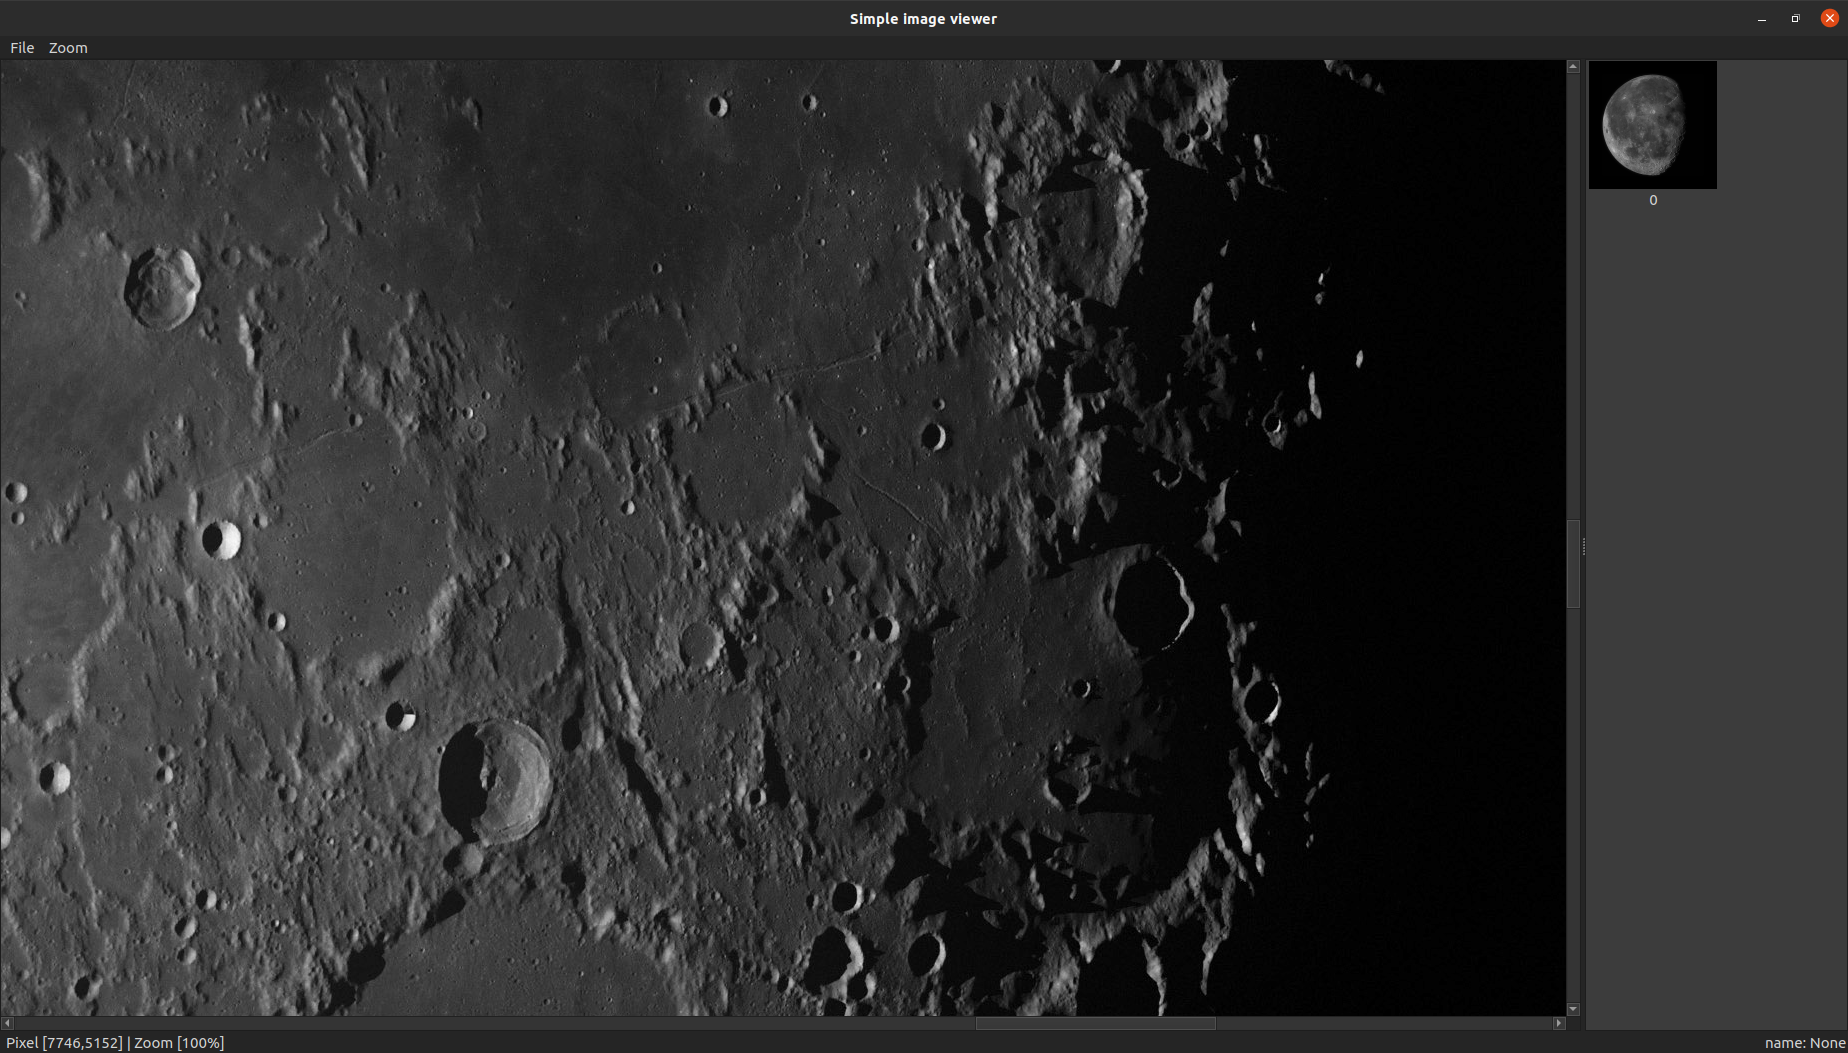
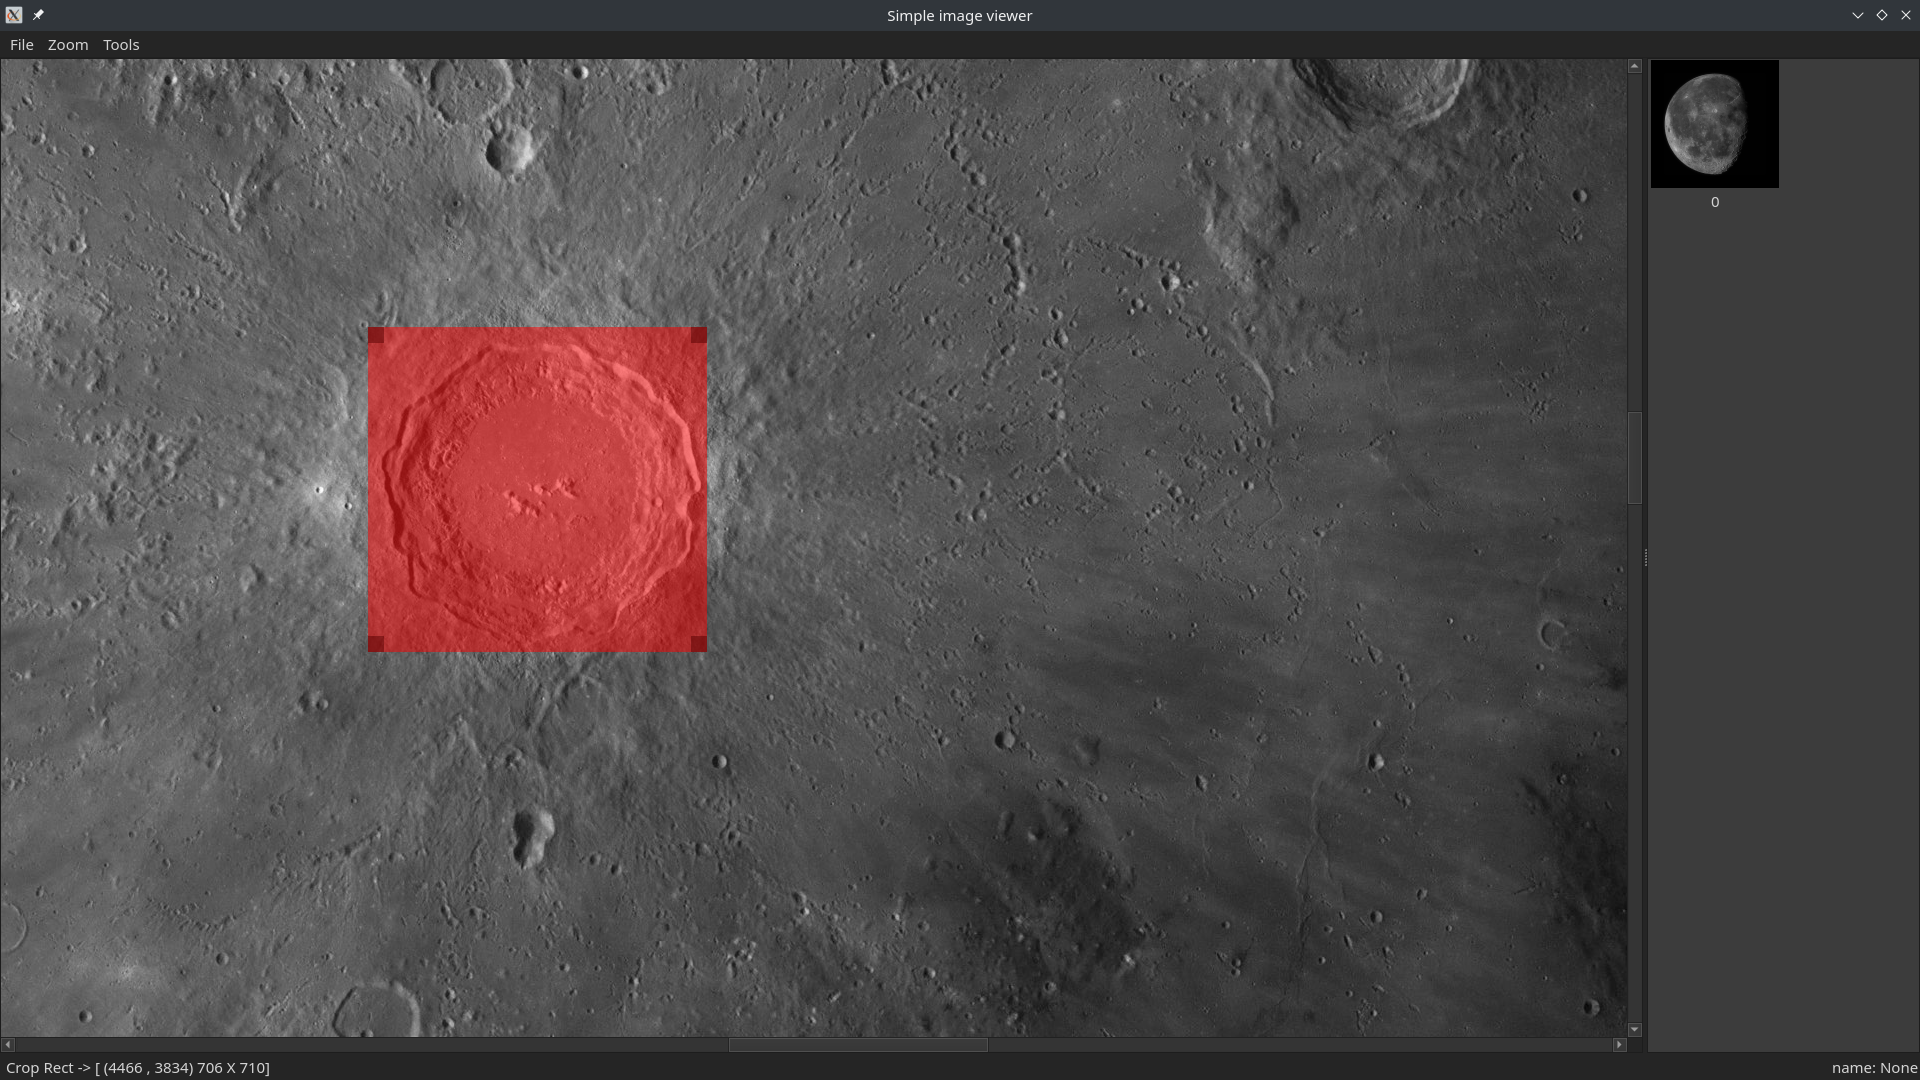
new tools

diff --git a/src/cropwidget.cpp b/src/cropwidget.cpp
@@ -121,58 +121,58 @@ void CropWidget::mouseMoveEvent(QMouseEvent *ev) {
     newrect.translate(dl);
   } else {
     switch (m_currentCorner) {
-      case kTopLeft:
-        if (newrect.width() - dl.x() < kMinimunRectSize)
-          dl.setX(newrect.width() - kMinimunRectSize);
-        if (newrect.height() - dl.y() < kMinimunRectSize)
-          dl.setY(newrect.height() - kMinimunRectSize);
-        newrect.adjust(dl.x(), dl.y(), 0, 0);
-        break;
-      case kTopRight:
-        if (newrect.width() + dl.x() < kMinimunRectSize)
-          dl.setX(kMinimunRectSize - newrect.width());
-        if (newrect.height() - dl.y() < kMinimunRectSize)
-          dl.setY(newrect.height() - kMinimunRectSize);
-        newrect.adjust(0, dl.y(), dl.x(), 0);
-        break;
-      case kBottomRight:
-        if (newrect.width() + dl.x() < kMinimunRectSize)
-          dl.setX(kMinimunRectSize - newrect.width());
-        if (newrect.height() + dl.y() < kMinimunRectSize)
-          dl.setY(kMinimunRectSize - newrect.height());
-        newrect.adjust(0, 0, dl.x(), dl.y());
-        break;
-      case kBottomLeft:
-        if (newrect.width() - dl.x() < kMinimunRectSize)
-          dl.setX(newrect.width() - kMinimunRectSize);
-        if (newrect.height() + dl.y() < kMinimunRectSize)
-          dl.setY(kMinimunRectSize - newrect.height());
-        newrect.adjust(dl.x(), 0, 0, dl.y());
-        break;
-      case kTopCenter:
-        dl.setX(0);
-        if (newrect.height() - dl.y() < kMinimunRectSize)
-          dl.setY(newrect.height() - kMinimunRectSize);
-        newrect.adjust(0, dl.y(), 0, 0);
-        break;
-      case kBottomCenter:
-        dl.setX(0);
-        if (newrect.height() + dl.y() < kMinimunRectSize)
-          dl.setY(kMinimunRectSize - newrect.height());
-        newrect.adjust(0, 0, 0, dl.y());
-        break;
-      case kRightCenter:
-        dl.setY(0);
-        if (newrect.width() + dl.x() < kMinimunRectSize)
-          dl.setX(kMinimunRectSize - newrect.width());
-        newrect.adjust(0, 0, dl.x(), 0);
-        break;
-      case kLeftCenter:
-        dl.setY(0);
-        if (newrect.width() - dl.x() < kMinimunRectSize)
-          dl.setX(newrect.width() - kMinimunRectSize);
-        newrect.adjust(dl.x(), 0, 0, 0);
-        break;
+    case kTopLeft:
+      if (newrect.width() - dl.x() < kMinimunRectSize)
+        dl.setX(newrect.width() - kMinimunRectSize);
+      if (newrect.height() - dl.y() < kMinimunRectSize)
+        dl.setY(newrect.height() - kMinimunRectSize);
+      newrect.adjust(dl.x(), dl.y(), 0, 0);
+      break;
+    case kTopRight:
+      if (newrect.width() + dl.x() < kMinimunRectSize)
+        dl.setX(kMinimunRectSize - newrect.width());
+      if (newrect.height() - dl.y() < kMinimunRectSize)
+        dl.setY(newrect.height() - kMinimunRectSize);
+      newrect.adjust(0, dl.y(), dl.x(), 0);
+      break;
+    case kBottomRight:
+      if (newrect.width() + dl.x() < kMinimunRectSize)
+        dl.setX(kMinimunRectSize - newrect.width());
+      if (newrect.height() + dl.y() < kMinimunRectSize)
+        dl.setY(kMinimunRectSize - newrect.height());
+      newrect.adjust(0, 0, dl.x(), dl.y());
+      break;
+    case kBottomLeft:
+      if (newrect.width() - dl.x() < kMinimunRectSize)
+        dl.setX(newrect.width() - kMinimunRectSize);
+      if (newrect.height() + dl.y() < kMinimunRectSize)
+        dl.setY(kMinimunRectSize - newrect.height());
+      newrect.adjust(dl.x(), 0, 0, dl.y());
+      break;
+    case kTopCenter:
+      dl.setX(0);
+      if (newrect.height() - dl.y() < kMinimunRectSize)
+        dl.setY(newrect.height() - kMinimunRectSize);
+      newrect.adjust(0, dl.y(), 0, 0);
+      break;
+    case kBottomCenter:
+      dl.setX(0);
+      if (newrect.height() + dl.y() < kMinimunRectSize)
+        dl.setY(kMinimunRectSize - newrect.height());
+      newrect.adjust(0, 0, 0, dl.y());
+      break;
+    case kRightCenter:
+      dl.setY(0);
+      if (newrect.width() + dl.x() < kMinimunRectSize)
+        dl.setX(kMinimunRectSize - newrect.width());
+      newrect.adjust(0, 0, dl.x(), 0);
+      break;
+    case kLeftCenter:
+      dl.setY(0);
+      if (newrect.width() - dl.x() < kMinimunRectSize)
+        dl.setX(newrect.width() - kMinimunRectSize);
+      newrect.adjust(dl.x(), 0, 0, 0);
+      break;
     }
   }
   const int d = kMinimunRectSize >> 1;
@@ -199,6 +199,7 @@ void CropWidget::mouseReleaseEvent(QMouseEvent *ev) {
                     .arg(finalRect.height());
     emit info(r);
   }
+  setCursor(Qt::SizeAllCursor);
 }
 
 QRect CropWidget::buildRectFromTwoPoints(const QPoint &p1, const QPoint &p2,

diff --git a/src/mainwindow.cpp b/src/mainwindow.cpp
@@ -48,6 +48,12 @@ MainWindow::MainWindow(QWidget *parent)
   ui->actionNext->setEnabled(false);
   ui->actionBack->setEnabled(false);
   ui->actionSave_as->setEnabled(false);
+  ui->actionFlip_H->setEnabled(false);
+  ui->actionFlip_V->setEnabled(false);
+  ui->actionRotate_L->setEnabled(false);
+  ui->actionRotate_R->setEnabled(false);
+  ui->actionCrop->setEnabled(false);
+
   ui->actionSave->setEnabled(m_imageWasModified = false);
 
   m_cropWidget = new CropWidget(m_viewer->viewport());
@@ -125,6 +131,11 @@ bool MainWindow::loadImage(const QString &image_path, const bool reload) {
     ui->actionNext->setEnabled(true);
     ui->actionBack->setEnabled(true);
     ui->actionSave_as->setEnabled(true);
+    ui->actionFlip_H->setEnabled(true);
+    ui->actionFlip_V->setEnabled(true);
+    ui->actionRotate_L->setEnabled(true);
+    ui->actionRotate_R->setEnabled(true);
+    ui->actionCrop->setEnabled(true);
   }
   return true;
 }
@@ -169,7 +180,7 @@ void MainWindow::doCrop() {
   }
   QImage *img = m_viewer->imagePtr();
   *img = img->copy(finalRect);
-  m_viewer->attachImagePtr(img);
+  m_viewer->adjustAll();
   m_cropWidget->hide();
   updateImageChanged(true);
 }
@@ -229,4 +240,36 @@ void MainWindow::on_actionSave_as_triggered() {
   if (imageFile.isEmpty())
     return;
   m_viewer->imagePtr()->save(imageFile);
+}
+
+void MainWindow::on_actionRotate_L_triggered() {
+  QImage *img = m_viewer->imagePtr();
+  QTransform rot;
+  rot.rotate(-90);
+  *img = img->transformed(rot);
+  m_viewer->adjustAll();
+  updateImageChanged(true);
+}
+
+void MainWindow::on_actionRotate_R_triggered() {
+  QImage *img = m_viewer->imagePtr();
+  QTransform rot;
+  rot.rotate(90);
+  *img = img->transformed(rot);
+  m_viewer->adjustAll();
+  updateImageChanged(true);
+}
+
+void MainWindow::on_actionFlip_H_triggered() {
+  QImage *img = m_viewer->imagePtr();
+  *img = img->mirrored(true, false);
+  m_viewer->adjustAll();
+  updateImageChanged(true);
+}
+
+void MainWindow::on_actionFlip_V_triggered() {
+  QImage *img = m_viewer->imagePtr();
+  *img = img->mirrored(false, true);
+  m_viewer->adjustAll();
+  updateImageChanged(true);
 }

diff --git a/src/imageviewer.h b/src/imageviewer.h
@@ -13,16 +13,15 @@ public:
   void init();
   QImage *imagePtr();
   double scale() const { return m_scaleFactor; }
-  QRect canvasRect() const ;
+  QRect canvasRect() const;
   QRect imageRect() const;
-
 
 protected:
   void paintEvent(QPaintEvent *) override;
   void resizeEvent(QResizeEvent *ev) override;
   void mouseMoveEvent(QMouseEvent *) override;
   void mousePressEvent(QMouseEvent *) override;
-  void wheelEvent(QWheelEvent *event)  override;
+  void wheelEvent(QWheelEvent *event) override;
 signals:
   void pixelTrack(int x, int y, double f);
 
@@ -32,6 +31,7 @@ public slots:
   void setScf(double);
   void fitWidth();
   void generateCache();
+  void adjustAll();
 
 private:
   QImage *m_imagePtr;
@@ -40,9 +40,8 @@ private:
   int m_screenW, m_screenH;
   double m_scaleFactor;
   QPoint m_lastPt;
-  void adjustAll();
   void selectScf();
-  QTimer* cacheTimer_;
+  QTimer *cacheTimer_;
   void queueGenerateCache();
   QPixmap m_cachedPixmap;
 };

diff --git a/src/mainwindow.h b/src/mainwindow.h
@@ -19,8 +19,9 @@ public:
   explicit MainWindow(QWidget *parent = nullptr);
   ~MainWindow() override;
   bool loadImage(const QString &image_path, bool reload);
+
 protected:
-    void keyPressEvent(QKeyEvent *event) override final;
+  void keyPressEvent(QKeyEvent *event) override final;
 
 private slots:
   void on_actionOpenImage_triggered();
@@ -38,6 +39,14 @@ private slots:
   void showInfo(const QString &msg);
   void on_actionSave_as_triggered();
   void updateImageChanged(bool val);
+
+  void on_actionRotate_L_triggered();
+
+  void on_actionRotate_R_triggered();
+
+  void on_actionFlip_H_triggered();
+
+  void on_actionFlip_V_triggered();
 
 private:
   void doCrop();

diff --git a/src/imageslistmodel.cpp b/src/imageslistmodel.cpp
@@ -49,10 +49,7 @@ void ImagesListModel::init(const QString &folder) {
   m_softLoading = false;
 }
 
-void ImagesListModel::refreshItem(int row)
-{
-    m_pixmapCache.remove(row);
-}
+void ImagesListModel::refreshItem(int row) { m_pixmapCache.remove(row); }
 
 int ImagesListModel::rowCount(const QModelIndex & /*parent*/) const {
   return m_imageNames.count();

diff --git a/src/imageslistmodel.h b/src/imageslistmodel.h
@@ -4,8 +4,8 @@
 #include <QAbstractListModel>
 #include <QCache>
 #include <QDir>
-#include <QPixmap>
 #include <QObject>
+#include <QPixmap>
 
 class ImagesListModel : public QAbstractListModel {
   Q_OBJECT
